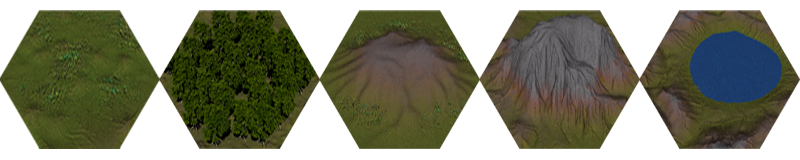
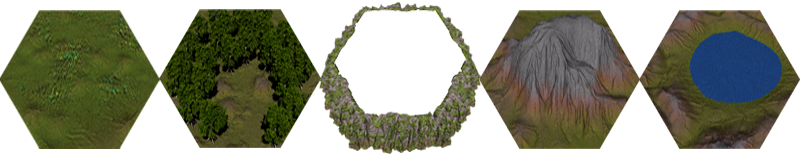
drawAt changed to include hex points

Changed region(s): [[0.1875, 0.0, 0.625, 0.9688]]

diff --git a/controllers/maps.js b/controllers/maps.js
@@ -3,37 +3,10 @@ const userModel = require('../models/User');
 const mapModel = require('../models/Map');
 const tileModel = require('../models/Tiles');
 
-function hexCell (x,y,z){
-this._x = x;
-this._y = y; 
-this._z = z;
-}
-function tile (hexCell, terrain){
-	this.hexCell = hexCell;
-	this.terrain = terrain;
-}
-
 function roll(s) {
 	return Math.floor(Math.random()*s);
 }
 
-function createGrid (mapSize){
-  mapSize = Math.max(1,mapSize);
-  let gridArray = [];
-
-  let cnt = 0;
-  for(let i = -mapSize; i < mapSize +1; i += 1) {
-    for(let j = -mapSize; j < mapSize +1; j += 1) {
-      for(let k = -mapSize; k < mapSize +1; k += 1) {
-        if (i + j + k == 0) {
-          gridArray.push(new hexCell(i, j, k));
-          cnt += 1;
-        }
-      }
-    }
-  }
-  return gridArray;
-}
 //tiles from the db are allways local, maplocations are always regional
 function getRegional (location, tile){
 	let regx = location._x + tile._x;
@@ -58,10 +31,7 @@ function sanitizeTiles (tiles) {
 	}
 	return cleanTiles;
 }
-exports.getUser = async function(Id) {
-	let user = await userModel.findById(Id);
-	return {name: user.name};
-}
+
 
 exports.getMap = async function(Id) {
 	let map;
@@ -97,38 +67,6 @@ exports.getMap = async function(Id) {
 	}
 
 	return map;
-}
-
-exports.createMap = async function (Id) {
-		console.log("No map was found for the user. A new map is being generated.");
-		let user = await userModel.findById({_id: Id});
-		let map = new mapModel({
-			owner: Id,
-			capital: "my base"
-		});
-		await map.save();
-
-		let newMap = await mapModel.findOne({owner: Id});
-
-		let grid = createGrid(1);
-		for (let t in grid) {
-
-			let tile = new tileModel({
-			map: newMap._id,
-			_x: grid[t]._x,
-			_y: grid[t]._y,
-			_z: grid[t]._z,
-			owner: user.name,
-			elevation: 1,
-			terrain: {
-				key: 0,
-				atlas: "tileAtlas"
-			},
-			resources: [],
-			slots: []
-			});
-			await tile.save();
-		}
 }
 
 

diff --git a/routes/index.js b/routes/index.js
@@ -1,6 +1,10 @@
 var express = require('express');
 var router = express.Router();
-const game = require('../controllers/game');
+const maps = require('../controllers/maps');
+const init = require('../controllers/init');
+const users = require('../controllers/users');
+const units = require('../controllers/units');
+
 const { forwardAuthenticated, ensureAuthenticated} = require('../services/auth');
 
 /* GET home page. */ 
@@ -29,14 +33,16 @@ module.exports = function (io) {
     console.log("User with ID: " + userID + " has entered the game"); 
     
     socket.on('connected', async function(){
-      let map = await game.getMap(userID);
-      let user = await game.getUser(userID);  
-      if (map === null) {
-        await game.createMap(userID);
-        map = await game.getMap(userID);
+      let board = await maps.getMap(userID);
+      let user = await users.getUser(userID);  
+      
+      //if no board is found we need to run a startup routine
+      if (board === null) {
+        await init.createMap(userID);
+        board = await maps.getMap(userID);
       }
-      await game.addToRegion(userID);
-      socket.emit('getMap', map, user.name, function(res) {
+      await maps.addToRegion(userID);
+      socket.emit('getMap', board, user.name, function(res) {
         console.log('client responded with: ' + res);
       });
 
@@ -47,7 +53,7 @@ module.exports = function (io) {
       console.log('The user clicked on tile: ' + coords);
 
       let userID = socket.handshake.session.passport.user;
-      let newTile = await game.rollNewTile(userID, coords);
+      let newTile = await maps.rollNewTile(userID, coords);
 
       socket.emit('rolledTile', newTile);
     });

diff --git a/controllers/init.js b/controllers/init.js
@@ -1,0 +1,68 @@
+const mongoose = require('mongoose');
+const userModel = require('../models/User');
+const mapModel = require('../models/Map');
+const tileModel = require('../models/Tiles');
+
+function hexCell (x,y,z){
+this._x = x;
+this._y = y; 
+this._z = z;
+}
+function tile (hexCell, terrain){
+	this.hexCell = hexCell;
+	this.terrain = terrain;
+}
+
+function roll(s) {
+	return Math.floor(Math.random()*s);
+}
+
+function createGrid (mapSize){
+  mapSize = Math.max(1,mapSize);
+  let gridArray = [];
+
+  let cnt = 0;
+  for(let i = -mapSize; i < mapSize +1; i += 1) {
+    for(let j = -mapSize; j < mapSize +1; j += 1) {
+      for(let k = -mapSize; k < mapSize +1; k += 1) {
+        if (i + j + k == 0) {
+          gridArray.push(new hexCell(i, j, k));
+          cnt += 1;
+        }
+      }
+    }
+  }
+  return gridArray;
+}
+
+exports.createMap = async function (Id) {
+    console.log("No map was found for the user. A new map is being generated.");
+    let user = await userModel.findById({_id: Id});
+    let map = new mapModel({
+      owner: Id,
+      capital: "my base"
+    });
+    await map.save();
+
+    let newMap = await mapModel.findOne({owner: Id});
+
+    let grid = createGrid(1);
+    for (let t in grid) {
+
+      let tile = new tileModel({
+      map: newMap._id,
+      _x: grid[t]._x,
+      _y: grid[t]._y,
+      _z: grid[t]._z,
+      owner: user.name,
+      elevation: roll(3),
+      terrain: {
+        key: 0,
+        atlas: "tileAtlas"
+      },
+      resources: [],
+      slots: []
+      });
+      await tile.save();
+    }
+}

diff --git a/public/javascripts/main.js b/public/javascripts/main.js
@@ -50,12 +50,12 @@ Game.update = function () {
 }
 
 Game.animateBoard = function(){
+
   for (let i in Game.map.tiles) {
     let tile = Game.map.tiles[i];
     let target = drawAt(tile, Game.board.size);
 
     if (tile.terrain !== null) {
-      
       let atlas = Game[tile.terrain.atlas];
       Renderer.drawCanvas(Game.ctx, atlas, tile, target);
     }
@@ -67,7 +67,7 @@ Game.animateBoard = function(){
 
 Game.animateUnits = function(){
 
-  
+
 }
 
 Game.setBoard = function (gridArray) {
@@ -207,9 +207,7 @@ Game.prepareTile = function(newTile){
     console.log('hi');
     let tile = Game.map.tiles[t];
 
-    let target = drawAt(tile, Game.board.size);
-
-    Interface.renderSVG(tile, Game.user, target);
+    Interface.renderSVG(tile, Game.user);
   }
 
   // let target = drawAt(newTile._x, newTile._y, newTile._z, Game.board.size);
@@ -223,10 +221,9 @@ Game.initMap = function(map){
   Game.setBoard(Game.map.tiles);
   for (let i = 0; i < Game.map.tiles.length; i++) {
     let tile = Game.map.tiles[i];
-    let target = drawAt(tile, Game.board.size);
-    Interface.renderSVG(tile, Game.user, target);
+    Interface.renderSVG(tile, Game.user);
   }
-
+  
   let body = $('body');
   let canvas = $('board');
 

diff --git a/public/javascripts/modules/common.js b/public/javascripts/modules/common.js
@@ -4,6 +4,16 @@ const $ = function(foo) {
     return document.getElementById(foo);
 };
 
+function pos(tx, ty, px, py) {
+  // pos indicates a position inside a canvas/svg element
+  //t values are used for drawing a bitmap from an atlas
+  //p values is an array of the points of a hex used for svg or canvas drawing 
+  this.tx = tx;
+  this.ty = ty;
+  this.px = px;
+  this.py = py;
+}
+
 const drawAt = function(tile, size) {
     
   let edgeLength = 80;
@@ -15,7 +25,21 @@ const drawAt = function(tile, size) {
     
   let tx = tile._x * edgeW + centerX;
   let ty = (-tile._y + tile._z) * edgeH + centerY;
-  return {x: tx, y: ty, edgeLength};
+
+  let px = [];
+  let py = [];
+  
+
+  for (let j = 1; j <= 6; j++) {
+    let pointX = tx + Math.cos(j / 6 * (Math.PI *2)) * 79;
+    let pointY = ty + Math.sin(j / 6 * (Math.PI *2)) * 79;
+    px.push(pointX);
+    py.push(pointY);
+  }
+  const points = new pos(tx, ty, px, py);
+
+  return points;
+  //return {x: tx, y: ty, edgeLength};
 };
 
 export {$, drawAt};

diff --git a/public/javascripts/modules/interface.js b/public/javascripts/modules/interface.js
@@ -221,7 +221,7 @@ Interface.resourcesInterface = function(resources){
   resUi.appendChild(resField);
 };
 
-Interface.renderSVG = function (tile, user, target) {
+Interface.renderSVG = function (tile, user) {
   let svg = $('svg');
   let wrap = $('main-wrapper');
   let owner = null;
@@ -230,11 +230,12 @@ Interface.renderSVG = function (tile, user, target) {
     owner = tile.owner;
   }
   let points = '';
-  for (let j = 1; j <= 6; j++) {
-    let pointX = target.x + Math.cos(j / 6 * (Math.PI *2)) * 79;
-    let pointY = target.y + Math.sin(j / 6 * (Math.PI *2)) * 79;
-    points += ' '+pointX+','+pointY+' ';
+  //call drawAt function and loop through the point values to add to a string
+  let target = drawAt(tile, Game.board.size);
+  for (let i in target.px) {
+    points += ' ' +target.px[i]+ ','+ target.py[i]+' '; 
   }
+
   let hex = $(tile._x + '.' + tile._y + '.' + tile._z);
   if (hex === null) {
     hex = document.createElementNS("http://www.w3.org/2000/svg", 'polygon');

diff --git a/public/javascripts/modules/renderer.js b/public/javascripts/modules/renderer.js
@@ -3,19 +3,21 @@ import {drawAt} from './common.js';
 let Renderer = {};
 
 Renderer.drawCanvas = function (ctx, atlas, tile, target) {
-  ctx.moveTo(target.x, target.y);
+  ctx.moveTo(target.tx, target.ty);
   ctx.drawImage(
     atlas, //image 
     (tile.terrain.key)* 160, // source x
     0,        //source y
     160,      //source width
     160,      //source heigh
-    target.x -80,   //target x
-    target.y - 80, //target y
+    target.tx -80,   //target x
+    target.ty - 80 - (tile.elevation * 10), //target y
     160,      //target width
     160       //target height
   );
 
 };
+
+//new drawCanvas function here
 
 export {Renderer}

diff --git a/routes/users.js b/routes/users.js
@@ -2,7 +2,7 @@ var express = require('express');
 var router = express.Router();
 
 const auth = require('../controllers/auth');
-const game = require('../controllers/game');
+//const game = require('../controllers/game');
 
 const { forwardAuthenticated, ensureAuthenticated} = require('../services/auth');
 

diff --git a/controllers/users.js b/controllers/users.js
@@ -1,0 +1,6 @@
+const userModel = require('../models/User');
+
+exports.getUser = async function(Id) {
+	let user = await userModel.findById(Id);
+	return {name: user.name};
+}

diff --git a/controllers/units.js b/controllers/units.js
@@ -1,0 +1,1 @@
+const userModel = require('../models/User');
